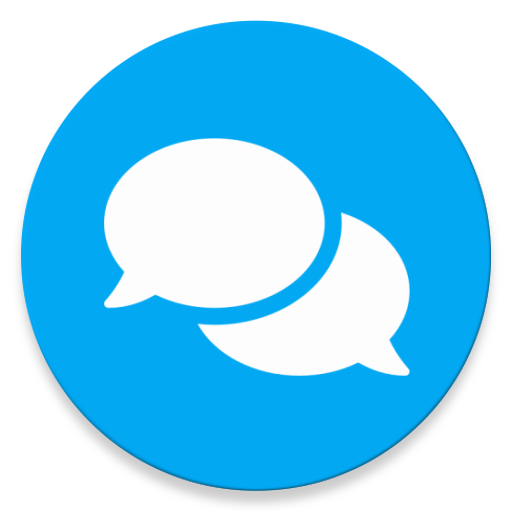
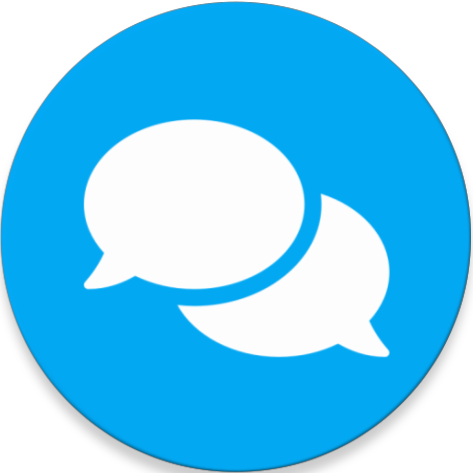
fix

Changed region(s): [[0.0, 0.0, 1.0, 1.0], [0.1776, 0.2368, 0.8288, 0.7696]]

diff --git a/app/(site)/components/AuthForm.tsx b/app/(site)/components/AuthForm.tsx
@@ -70,11 +70,11 @@ const AuthForm = () => {
             })
             .then((callback) => {
                 if (callback?.error) {
-                    toast.error('Invalid credentials')
+                    toast.error('Credenciais inválidas')
                 }
 
                 if (callback?.ok && !callback.error) {
-                    toast.success('Logged in!')
+                    toast.success('Login realizado!')
                     router.push('/users')
                 }
             })
@@ -88,11 +88,11 @@ const AuthForm = () => {
         signIn(action, { redirect: false })
         .then((callback) => {
             if(callback?.error) {
-                toast.error('Invalid Credentials');
+                toast.error('Credenciais inválidas');
             }
 
             if (callback?.ok && !callback?.error) {
-                toast.success('Logged in!')
+                toast.success('Login realizado!')
             }
         })
         .finally(() => setIsLoading(false))

diff --git a/app/conversations/[conversationId]/components/ConfirmModal.tsx b/app/conversations/[conversationId]/components/ConfirmModal.tsx
@@ -32,7 +32,7 @@ const ConfirmModal: React.FC<ConfirmModalProps> = ({
             router.push('/conversations');
             router.refresh();
         })
-        .catch(() => toast.error('Something went wrong!'))
+        .catch(() => toast.error('Alguma coisa deu errado!'))
         .finally(() => setIsLoading(false))
     }, [conversationId, router, onClose]);
     return(

diff --git a/app/conversations/components/GroupChatModal.tsx b/app/conversations/components/GroupChatModal.tsx
@@ -53,7 +53,7 @@ const GroupChatModal: React.FC<GroupChatModalProps> = ({
             router.refresh();
             onClose();
         })
-        .catch(() => toast.error('Something went wrong'))
+        .catch(() => toast.error('Alguma coisa deu errado!'))
         .finally(() => setIsLoading(false))
     }
 

diff --git a/app/components/sidebar/SettingsModal.tsx b/app/components/sidebar/SettingsModal.tsx
@@ -57,7 +57,7 @@ const SettingsModal: React.FC<SettingsModalProps> = ({
             router.refresh();
             onClose();
         })
-        .catch(() => toast.error('Something went wrong!'))
+        .catch(() => toast.error('Alguma coisa deu errado!'))
         .finally(() => setIsLoading(false))
     }
 

diff --git a/app/(site)/page.tsx b/app/(site)/page.tsx
@@ -20,7 +20,7 @@ export default function Home() {
           height="48"
           width="48"
           className="mx-auto w-auto"
-          src="/images/chat-logo.png"
+          src="/images/3.png"
         />
         <h2
           className='
